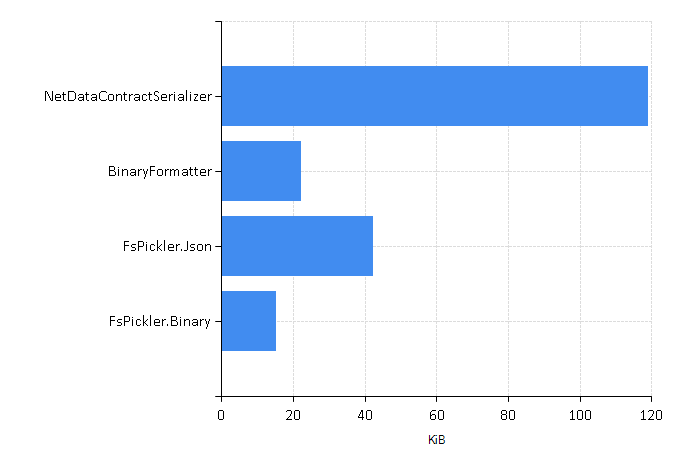
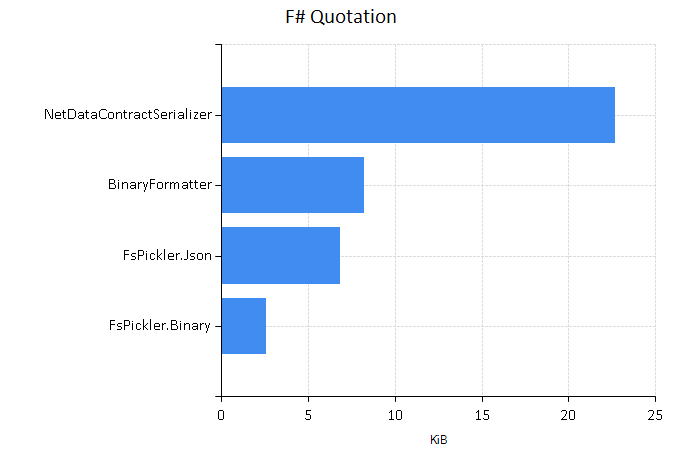
Update generated documentation for version 1.4.0

diff --git a/benchmarks.html b/benchmarks.html
@@ -39,10 +39,11 @@
 In this section we present a few microbenchmarks: we compared FsPickler against 
 <a href="http://msdn.microsoft.com/en-us/library/system.runtime.serialization.formatters.binary.binaryformatter.aspx">BinaryFormatter</a>, 
 <a href="http://msdn.microsoft.com/en-us/library/system.runtime.serialization.netdatacontractserializer.aspx">NetDataContractSerializer</a>, 
-<a href="http://james.newtonking.com/json">Json.Net</a>, <a href="https://www.nuget.org/packages/ServiceStack.Text/4.0.15">ServiceStack.Text</a> and
+<a href="http://james.newtonking.com/json">Json.Net</a>, <a href="https://www.nuget.org/packages/Wire">Wire</a> and
 <a href="https://code.google.com/p/protobuf-net/">ProtoBuf-Net</a>. 
 Code used to run the tests is available in the 
-<a href="https://github.com/nessos/FsPickler/tree/master/tests/FsPickler.PerfTests">FsPickler.PerfTests</a> project.</p>
+<a href="https://github.com/nessos/FsPickler/tree/master/tests/FsPickler.PerfTests">FsPickler.PerfTests</a> project.
+Benchmarks were run on an Intel Core i7-7200K CPU @ 3.50GHz with 16GB RAM.</p>
 
 <h2><a name="Execution-Time" class="anchor" href="#Execution-Time">Execution Time</a></h2>
 
@@ -53,51 +54,73 @@ Benchmarks are indicative and in no way scientific.</p>
 
 <h3><a name="System-Tuple" class="anchor" href="#System-Tuple">System.Tuple</a></h3>
 
-<img src="benchmarks/time/tuple.png" />
+<img src="benchmarks/time/tuple6.png" />
+<img src="benchmarks/gc/tuple6.png" />
 
 <h3><a name="Array-of-Tuples" class="anchor" href="#Array-of-Tuples">Array of Tuples</a></h3>
 
-<img src="benchmarks/time/tupleArray.png" />
+<img src="benchmarks/time/tuplearray.png" />
+<img src="benchmarks/gc/tuplearray.png" />
 
-<h3><a name="Simple-Record-Class" class="anchor" href="#Simple-Record-Class">Simple Record Class</a></h3>
+<h3><a name="Array-of-System-Type" class="anchor" href="#Array-of-System-Type">Array of System.Type</a></h3>
 
-<img src="benchmarks/time/class.png" />
+<img src="benchmarks/time/typearray.png" />
+<img src="benchmarks/gc/typearray.png" />
 
-<h3><a name="ISerializable-Class" class="anchor" href="#ISerializable-Class">ISerializable Class</a></h3>
+<h3><a name="Simple-POCO" class="anchor" href="#Simple-POCO">Simple POCO</a></h3>
+
+<img src="benchmarks/time/poco.png" />
+<img src="benchmarks/gc/poco.png" />
+
+<h3><a name="ISerializable-Object" class="anchor" href="#ISerializable-Object">ISerializable Object</a></h3>
 
 <img src="benchmarks/time/iserializable.png" />
+<img src="benchmarks/gc/iserializable.png" />
+
+<h3><a name="DataContract-Object" class="anchor" href="#DataContract-Object">DataContract Object</a></h3>
+
+<img src="benchmarks/time/datacontract.png" />
+<img src="benchmarks/gc/datacontract.png" />
 
 <h3><a name="Generic-Dictionary" class="anchor" href="#Generic-Dictionary">Generic Dictionary</a></h3>
 
-<img src="benchmarks/time/dictionary.png" />
+<img src="benchmarks/time/dict.png" />
+<img src="benchmarks/gc/dict.png" />
 
 <h3><a name="Binary-Tree" class="anchor" href="#Binary-Tree">Binary Tree</a></h3>
 
-<img src="benchmarks/time/binaryTree.png" />
+<img src="benchmarks/time/tree.png" />
+<img src="benchmarks/gc/tree.png" />
 
 <h3><a name="F-list-of-integers" class="anchor" href="#F-list-of-integers">F# list of integers</a></h3>
 
-<img src="benchmarks/time/list.png" />
+<img src="benchmarks/time/intlist.png" />
+<img src="benchmarks/gc/intlist.png" />
 
 <h3><a name="F-list-of-tuples" class="anchor" href="#F-list-of-tuples">F# list of tuples</a></h3>
 
-<img src="benchmarks/time/pairList.png" />
+<img src="benchmarks/time/pairlist.png" />
+<img src="benchmarks/gc/pairlist.png" />
 
 <h3><a name="3D-float-Array-200-x-200-x-200" class="anchor" href="#3D-float-Array-200-x-200-x-200">3D float Array (200 x 200 x 200)</a></h3>
 
-<img src="benchmarks/time/array3D.png" />
+<img src="benchmarks/time/3darray.png" />
+<img src="benchmarks/gc/3darray.png" />
 
 <h3><a name="F-mutual-recursive-types" class="anchor" href="#F-mutual-recursive-types">F# mutual recursive types</a></h3>
 
-<img src="benchmarks/time/fsharpForest.png" />
+<img src="benchmarks/time/fsmutual.png" />
+<img src="benchmarks/gc/fsmutual.png" />
 
 <h3><a name="F-Quotation" class="anchor" href="#F-Quotation">F# Quotation</a></h3>
 
 <img src="benchmarks/time/quotation.png" />
+<img src="benchmarks/gc/quotation.png" />
 
 <h3><a name="Random-object-graph-n-500-Pb-20" class="anchor" href="#Random-object-graph-n-500-Pb-20">Random object graph (n = 500, Pb = 20%)</a></h3>
 
-<img src="benchmarks/time/random.png" />
+<img src="benchmarks/time/graph.png" />
+<img src="benchmarks/gc/graph.png" />
 
 <h2><a name="Serialization-Size" class="anchor" href="#Serialization-Size">Serialization Size</a></h2>
 
@@ -122,7 +145,7 @@ Libraries not appearing in charts failed to serialize the tested objects.</p>
 
 <h3><a name="3D-float-Array-100x100x100" class="anchor" href="#3D-float-Array-100x100x100">3D float Array (100x100x100)</a></h3>
 
-<img src="benchmarks/size/array.png" />
+<img src="benchmarks/size/3darray.png" />
 
 <h3><a name="F-List-of-Integers-1000-elements" class="anchor" href="#F-List-of-Integers-1000-elements">F# List of Integers (1000 elements)</a></h3>
 
@@ -132,13 +155,13 @@ Libraries not appearing in charts failed to serialize the tested objects.</p>
 
 <img src="benchmarks/size/pairlist.png" />
 
-<h3><a name="Record" class="anchor" href="#Record">Record</a></h3>
+<h3><a name="Simple-POCO-1" class="anchor" href="#Simple-POCO-1">Simple POCO</a></h3>
 
-<img src="benchmarks/size/record.png" />
+<img src="benchmarks/size/poco.png" />
 
-<h3><a name="Dictionary-of-Records-1000-entries" class="anchor" href="#Dictionary-of-Records-1000-entries">Dictionary of Records (1000 entries)</a></h3>
+<h3><a name="Dictionary-of-POCOs-1000-entries" class="anchor" href="#Dictionary-of-POCOs-1000-entries">Dictionary of POCOs (1000 entries)</a></h3>
 
-<img src="benchmarks/size/dictionary.png" />
+<img src="benchmarks/size/dict.png" />
 
 <h3><a name="Exception-with-stacktrace" class="anchor" href="#Exception-with-stacktrace">Exception (with stacktrace)</a></h3>
 
@@ -146,7 +169,7 @@ Libraries not appearing in charts failed to serialize the tested objects.</p>
 
 <h3><a name="Binary-tree-balanced-depth-10" class="anchor" href="#Binary-tree-balanced-depth-10">Binary tree (balanced, depth = 10)</a></h3>
 
-<img src="benchmarks/size/bintree.png" />
+<img src="benchmarks/size/tree.png" />
 
 <h3><a name="F-Quotation-1" class="anchor" href="#F-Quotation-1">F# Quotation</a></h3>
 
